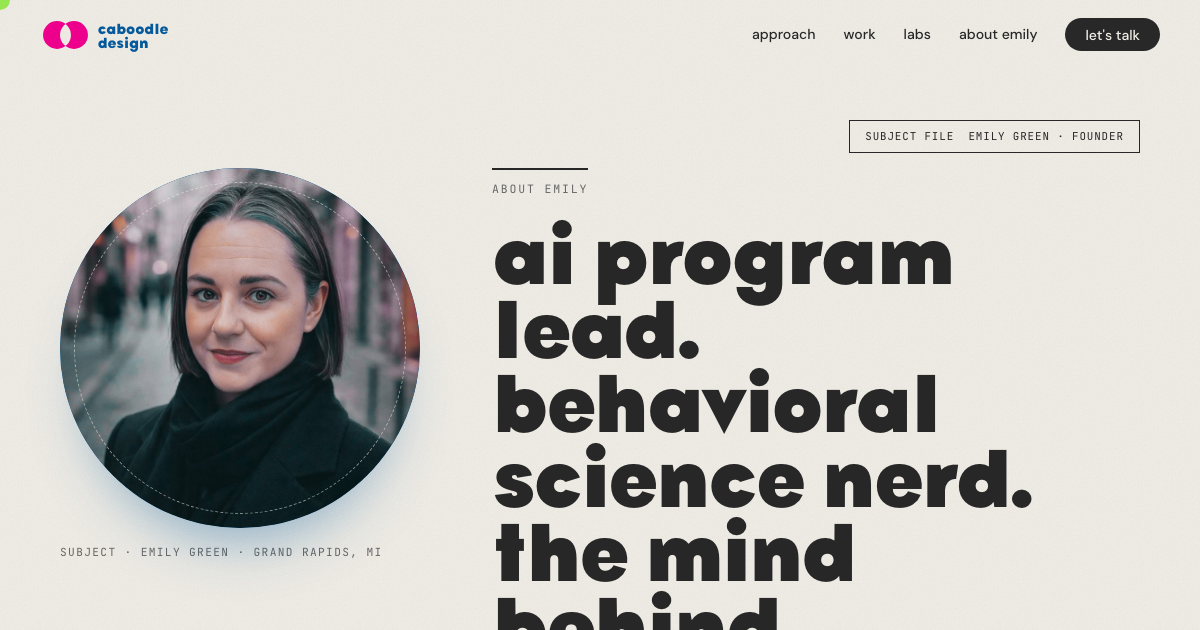
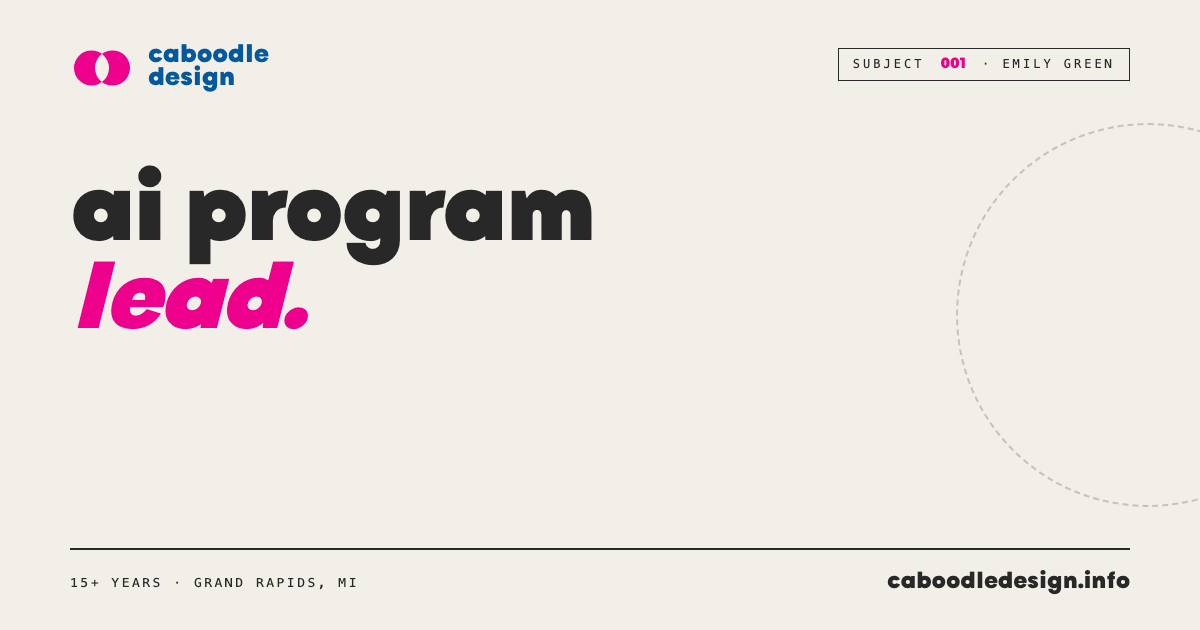
Pivot OG pipeline to bespoke 1200x630 templates
The screenshot-the-live-page approach worked but produced cropped,
utility-grade output. The repo already had hand-composed OG canvases
at assets/og/og-*.html (custom layout, branded chrome, sized for the
1200x630 OG aspect, with the headline tuned to fit). Those templates
just hadn't been updated since April and were therefore stale, which
is why the homepage OG preview still showed "learning that changes
what people do."

This pivot does two things:

1. Updates the bespoke templates to the new AI Program Lead
   positioning:
   - og-home.html: H1 becomes "ai rollouts that humans actually
     adopt." (italic magenta "adopt." mirrors the website hero
     kicker beat). Location stamp updated to GRAND RAPIDS, MI.
     Bottom tagline updated from "STRATEGY · MEDIA · BEHAVIORAL
     SCIENCE" to "AI PROGRAM LEAD · BEHAVIOR CHANGE · LEARNING
     SYSTEMS" so the tagline-as-positioning-eyebrow doubles as
     credibility signal under the headline.
   - og-about.html: H1 becomes "ai program lead." (italic magenta
     "lead." as the kicker). Bottom tagline updated from "14+
     YEARS · BYRON CENTER, MI" to "15+ YEARS · GRAND RAPIDS, MI".
   - og-field-notes.html: no copy changes needed — "notes from
     the field" is content-section branding, not positioning copy.
     Regenerated only because the script now runs on every deploy.

2. Repoints generate-og.mjs at the templates instead of the live
   pages. Same Playwright/Chromium infrastructure, same Netlify
[…]

diff --git a/assets/og/og-home.html b/assets/og/og-home.html
@@ -125,10 +125,10 @@
     </svg>
     <div class="og__brand">caboodle<br>design</div>
   </div>
-  <div class="og__meta">FIELD NOTE <b>001</b> · BYRON CENTER, MI</div>
-  <h1 class="og__h">learning that<br>changes what<br>people <em>do.</em></h1>
+  <div class="og__meta">FIELD NOTE <b>001</b> · GRAND RAPIDS, MI</div>
+  <h1 class="og__h">ai rollouts<br>that humans<br>actually <em>adopt.</em></h1>
   <div class="og__rule"></div>
-  <div class="og__tag">STRATEGY · MEDIA · BEHAVIORAL SCIENCE</div>
+  <div class="og__tag">AI PROGRAM LEAD · BEHAVIOR CHANGE · LEARNING SYSTEMS</div>
   <div class="og__url">caboodledesign.info</div>
 </div>
 </body>

diff --git a/assets/og/og-about.html b/assets/og/og-about.html
@@ -126,9 +126,9 @@
     <div class="og__brand">caboodle<br>design</div>
   </div>
   <div class="og__meta">SUBJECT <b>001</b> · EMILY GREEN</div>
-  <h1 class="og__h">meet<br><em>emily.</em></h1>
+  <h1 class="og__h">ai program<br><em>lead.</em></h1>
   <div class="og__rule"></div>
-  <div class="og__tag">14+ YEARS · BYRON CENTER, MI</div>
+  <div class="og__tag">15+ YEARS · GRAND RAPIDS, MI</div>
   <div class="og__url">caboodledesign.info</div>
 </div>
 </body>
